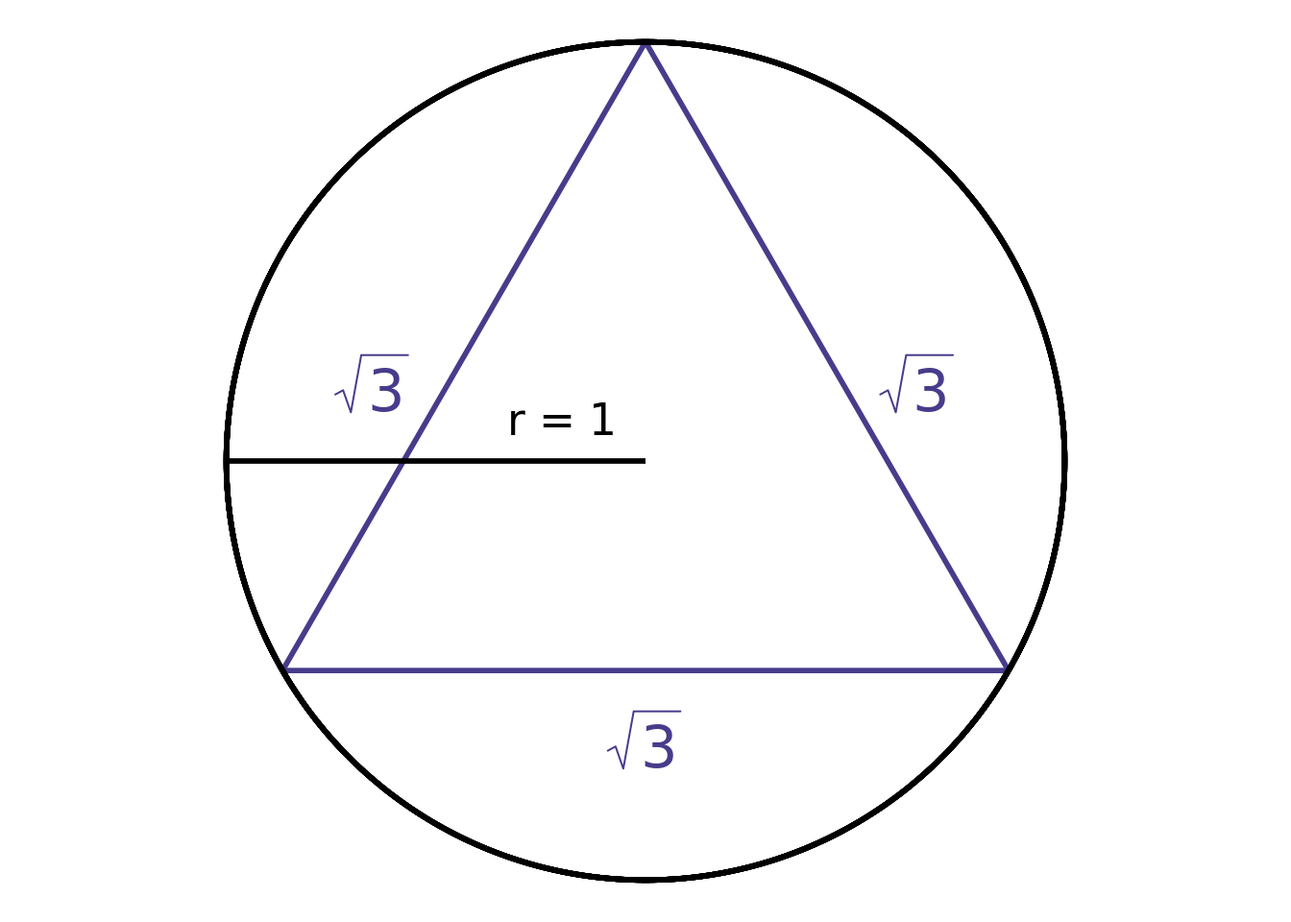
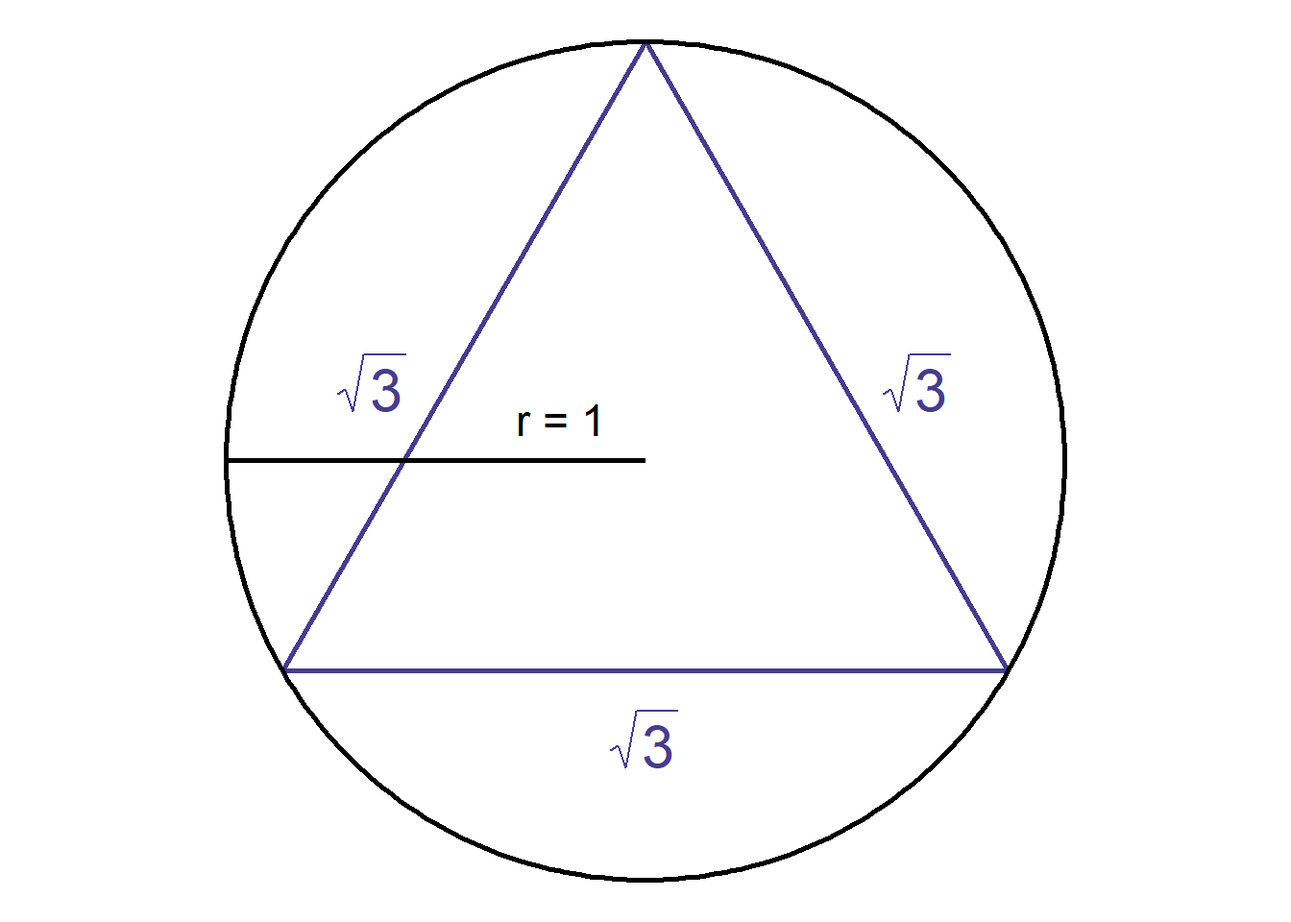
commit all.

diff --git a/index.html b/index.html
@@ -2,7 +2,7 @@
 <html xmlns="http://www.w3.org/1999/xhtml" lang="en" xml:lang="en"><head>
 
 <meta charset="utf-8">
-<meta name="generator" content="quarto-1.3.450">
+<meta name="generator" content="quarto-1.3.433">
 
 <meta name="viewport" content="width=device-width, initial-scale=1.0, user-scalable=yes">
 
@@ -102,42 +102,173 @@ pre > code.sourceCode > span > a:first-child::before { text-decoration: underlin
 </header>
 
 <div class="cell">
-<div class="sourceCode cell-code" id="cb1"><pre class="sourceCode r code-with-copy"><code class="sourceCode r"><span id="cb1-1"><a href="#cb1-1" aria-hidden="true" tabindex="-1"></a><span class="fu">library</span>(tidyverse)</span></code><button title="Copy to Clipboard" class="code-copy-button"><i class="bi"></i></button></pre></div>
-<div class="cell-output cell-output-stderr">
-<pre><code>── Attaching core tidyverse packages ──────────────────────── tidyverse 2.0.0 ──
-✔ dplyr     1.1.3     ✔ readr     2.1.4
-✔ forcats   1.0.0     ✔ stringr   1.5.0
-✔ ggplot2   3.4.3     ✔ tibble    3.2.1
-✔ lubridate 1.9.2     ✔ tidyr     1.3.0
-✔ purrr     1.0.2     
-── Conflicts ────────────────────────────────────────── tidyverse_conflicts() ──
-✖ dplyr::filter() masks stats::filter()
-✖ dplyr::lag()    masks stats::lag()
-ℹ Use the conflicted package (&lt;http://conflicted.r-lib.org/&gt;) to force all conflicts to become errors</code></pre>
-</div>
-<div class="sourceCode cell-code" id="cb3"><pre class="sourceCode r code-with-copy"><code class="sourceCode r"><span id="cb3-1"><a href="#cb3-1" aria-hidden="true" tabindex="-1"></a><span class="fu">library</span>(latex2exp)</span>
-<span id="cb3-2"><a href="#cb3-2" aria-hidden="true" tabindex="-1"></a><span class="fu">library</span>(ggforce)</span></code><button title="Copy to Clipboard" class="code-copy-button"><i class="bi"></i></button></pre></div>
+<div class="sourceCode cell-code" id="cb1"><pre class="sourceCode r code-with-copy"><code class="sourceCode r"><span id="cb1-1"><a href="#cb1-1" aria-hidden="true" tabindex="-1"></a><span class="fu">library</span>(tidyverse)</span>
+<span id="cb1-2"><a href="#cb1-2" aria-hidden="true" tabindex="-1"></a><span class="fu">library</span>(latex2exp)</span>
+<span id="cb1-3"><a href="#cb1-3" aria-hidden="true" tabindex="-1"></a><span class="fu">library</span>(ggforce)</span>
+<span id="cb1-4"><a href="#cb1-4" aria-hidden="true" tabindex="-1"></a><span class="fu">library</span>(gganimate)</span>
+<span id="cb1-5"><a href="#cb1-5" aria-hidden="true" tabindex="-1"></a><span class="fu">library</span>(extrafont)</span>
+<span id="cb1-6"><a href="#cb1-6" aria-hidden="true" tabindex="-1"></a><span class="fu">library</span>(reshape2)</span>
+<span id="cb1-7"><a href="#cb1-7" aria-hidden="true" tabindex="-1"></a><span class="fu">library</span>(plotrix)</span>
+<span id="cb1-8"><a href="#cb1-8" aria-hidden="true" tabindex="-1"></a><span class="fu">library</span>(animate)</span>
+<span id="cb1-9"><a href="#cb1-9" aria-hidden="true" tabindex="-1"></a><span class="fu">library</span>(graphics)</span>
+<span id="cb1-10"><a href="#cb1-10" aria-hidden="true" tabindex="-1"></a><span class="fu">library</span>(gifski)</span></code><button title="Copy to Clipboard" class="code-copy-button"><i class="bi"></i></button></pre></div>
 </div>
 <div class="cell">
-<div class="sourceCode cell-code" id="cb4"><pre class="sourceCode r code-with-copy"><code class="sourceCode r"><span id="cb4-1"><a href="#cb4-1" aria-hidden="true" tabindex="-1"></a><span class="co">#create data frame</span></span>
-<span id="cb4-2"><a href="#cb4-2" aria-hidden="true" tabindex="-1"></a>df <span class="ot">&lt;-</span> <span class="fu">data.frame</span>(<span class="at">x=</span><span class="fu">c</span>(<span class="dv">1</span>, <span class="dv">2</span>, <span class="dv">2</span>, <span class="dv">3</span>, <span class="dv">3</span>, <span class="dv">4</span>, <span class="dv">8</span>),</span>
-<span id="cb4-3"><a href="#cb4-3" aria-hidden="true" tabindex="-1"></a>                 <span class="at">y=</span><span class="fu">c</span>(<span class="dv">2</span>, <span class="dv">4</span>, <span class="dv">5</span>, <span class="dv">4</span>, <span class="dv">7</span>, <span class="dv">9</span>, <span class="dv">10</span>))</span>
-<span id="cb4-4"><a href="#cb4-4" aria-hidden="true" tabindex="-1"></a></span>
-<span id="cb4-5"><a href="#cb4-5" aria-hidden="true" tabindex="-1"></a><span class="co">#create scatter plot with circle</span></span>
-<span id="cb4-6"><a href="#cb4-6" aria-hidden="true" tabindex="-1"></a><span class="fu">ggplot</span>(<span class="at">data =</span> df, <span class="fu">aes</span>(x, y)) <span class="sc">+</span></span>
-<span id="cb4-7"><a href="#cb4-7" aria-hidden="true" tabindex="-1"></a>  <span class="fu">annotate</span>(<span class="st">"segment"</span>, <span class="at">x =</span> <span class="dv">0</span>, <span class="at">y =</span> <span class="dv">1</span>, <span class="at">xend =</span> <span class="sc">-</span>(<span class="dv">3</span><span class="sc">^</span>(<span class="dv">1</span><span class="sc">/</span><span class="dv">2</span>))<span class="sc">/</span><span class="dv">2</span>, <span class="at">yend =</span> <span class="sc">-</span><span class="fl">0.5</span>, <span class="at">color =</span> <span class="st">"slateblue4"</span>, <span class="at">lwd =</span> <span class="dv">1</span>) <span class="sc">+</span></span>
-<span id="cb4-8"><a href="#cb4-8" aria-hidden="true" tabindex="-1"></a>  <span class="fu">annotate</span>(<span class="st">"segment"</span>, <span class="at">x =</span> <span class="dv">0</span>, <span class="at">y =</span> <span class="dv">1</span>, <span class="at">xend =</span> (<span class="dv">3</span><span class="sc">^</span>(<span class="dv">1</span><span class="sc">/</span><span class="dv">2</span>))<span class="sc">/</span><span class="dv">2</span>, <span class="at">yend =</span> <span class="sc">-</span><span class="fl">0.5</span>, <span class="at">color =</span> <span class="st">"slateblue4"</span>, <span class="at">lwd =</span> <span class="dv">1</span>) <span class="sc">+</span></span>
-<span id="cb4-9"><a href="#cb4-9" aria-hidden="true" tabindex="-1"></a>  <span class="fu">annotate</span>(<span class="st">"segment"</span>, <span class="at">x =</span> <span class="sc">-</span>(<span class="dv">3</span><span class="sc">^</span>(<span class="dv">1</span><span class="sc">/</span><span class="dv">2</span>))<span class="sc">/</span><span class="dv">2</span>, <span class="at">y =</span> <span class="sc">-</span><span class="fl">0.5</span>, <span class="at">xend =</span> (<span class="dv">3</span><span class="sc">^</span>(<span class="dv">1</span><span class="sc">/</span><span class="dv">2</span>))<span class="sc">/</span><span class="dv">2</span>, <span class="at">yend =</span> <span class="sc">-</span><span class="fl">0.5</span>, <span class="at">color =</span> <span class="st">"slateblue4"</span>, <span class="at">lwd =</span> <span class="dv">1</span>) <span class="sc">+</span></span>
-<span id="cb4-10"><a href="#cb4-10" aria-hidden="true" tabindex="-1"></a>  <span class="fu">geom_circle</span>(<span class="fu">aes</span>(<span class="at">x0=</span><span class="dv">0</span>, <span class="at">y0=</span><span class="dv">0</span>, <span class="at">r=</span><span class="dv">1</span>), <span class="at">lwd=</span><span class="dv">1</span>, <span class="at">inherit.aes=</span><span class="cn">FALSE</span>) <span class="sc">+</span></span>
-<span id="cb4-11"><a href="#cb4-11" aria-hidden="true" tabindex="-1"></a>  <span class="fu">annotate</span>(<span class="st">"segment"</span>, <span class="at">x =</span> <span class="sc">-</span><span class="dv">1</span>, <span class="at">y =</span> <span class="dv">0</span>, <span class="at">xend =</span> <span class="dv">0</span>, <span class="at">yend =</span> <span class="dv">0</span>, <span class="at">lwd =</span> <span class="dv">1</span>) <span class="sc">+</span></span>
-<span id="cb4-12"><a href="#cb4-12" aria-hidden="true" tabindex="-1"></a>  <span class="fu">annotate</span>(<span class="st">"text"</span>, <span class="at">x  =</span> <span class="sc">-</span><span class="fl">0.2</span>, <span class="at">y =</span> <span class="fl">0.1</span>, <span class="at">label =</span> <span class="st">"r = 1"</span>, <span class="at">size =</span> <span class="dv">6</span>) <span class="sc">+</span></span>
-<span id="cb4-13"><a href="#cb4-13" aria-hidden="true" tabindex="-1"></a>  <span class="fu">annotate</span>(<span class="st">"text"</span>, <span class="at">x =</span> <span class="fl">0.65</span>, <span class="at">y =</span> <span class="fl">0.2</span>, <span class="at">label =</span> <span class="fu">TeX</span>(<span class="st">"$</span><span class="sc">\\</span><span class="st">sqrt{3}$"</span>), <span class="at">color =</span> <span class="st">"slateblue4"</span>, <span class="at">size =</span> <span class="dv">8</span>) <span class="sc">+</span></span>
-<span id="cb4-14"><a href="#cb4-14" aria-hidden="true" tabindex="-1"></a>  <span class="fu">annotate</span>(<span class="st">"text"</span>, <span class="at">x =</span> <span class="sc">-</span><span class="fl">0.65</span>, <span class="at">y =</span> <span class="fl">0.2</span>, <span class="at">label =</span> <span class="fu">TeX</span>(<span class="st">"$</span><span class="sc">\\</span><span class="st">sqrt{3}$"</span>), <span class="at">color =</span> <span class="st">"slateblue4"</span>, <span class="at">size =</span> <span class="dv">8</span>) <span class="sc">+</span></span>
-<span id="cb4-15"><a href="#cb4-15" aria-hidden="true" tabindex="-1"></a>  <span class="fu">annotate</span>(<span class="st">"text"</span>, <span class="at">x =</span> <span class="dv">0</span>, <span class="at">y =</span> <span class="sc">-</span><span class="fl">0.65</span>, <span class="at">label =</span> <span class="fu">TeX</span>(<span class="st">"$</span><span class="sc">\\</span><span class="st">sqrt{3}$"</span>), <span class="at">color =</span> <span class="st">"slateblue4"</span>, <span class="at">size =</span> <span class="dv">8</span>) <span class="sc">+</span></span>
-<span id="cb4-16"><a href="#cb4-16" aria-hidden="true" tabindex="-1"></a>  <span class="fu">theme_void</span>() <span class="sc">+</span></span>
-<span id="cb4-17"><a href="#cb4-17" aria-hidden="true" tabindex="-1"></a>  <span class="fu">coord_fixed</span>() </span></code><button title="Copy to Clipboard" class="code-copy-button"><i class="bi"></i></button></pre></div>
+<div class="sourceCode cell-code" id="cb2"><pre class="sourceCode r code-with-copy"><code class="sourceCode r"><span id="cb2-1"><a href="#cb2-1" aria-hidden="true" tabindex="-1"></a><span class="co">#create data frame</span></span>
+<span id="cb2-2"><a href="#cb2-2" aria-hidden="true" tabindex="-1"></a>df <span class="ot">&lt;-</span> <span class="fu">data.frame</span>(<span class="at">x=</span><span class="fu">c</span>(<span class="dv">1</span>, <span class="dv">2</span>, <span class="dv">2</span>, <span class="dv">3</span>, <span class="dv">3</span>, <span class="dv">4</span>, <span class="dv">8</span>),</span>
+<span id="cb2-3"><a href="#cb2-3" aria-hidden="true" tabindex="-1"></a>                 <span class="at">y=</span><span class="fu">c</span>(<span class="dv">2</span>, <span class="dv">4</span>, <span class="dv">5</span>, <span class="dv">4</span>, <span class="dv">7</span>, <span class="dv">9</span>, <span class="dv">10</span>))</span>
+<span id="cb2-4"><a href="#cb2-4" aria-hidden="true" tabindex="-1"></a></span>
+<span id="cb2-5"><a href="#cb2-5" aria-hidden="true" tabindex="-1"></a><span class="co">#create scatter plot with circle</span></span>
+<span id="cb2-6"><a href="#cb2-6" aria-hidden="true" tabindex="-1"></a><span class="fu">ggplot</span>(<span class="at">data =</span> df, <span class="fu">aes</span>(x, y)) <span class="sc">+</span></span>
+<span id="cb2-7"><a href="#cb2-7" aria-hidden="true" tabindex="-1"></a>  <span class="fu">annotate</span>(<span class="st">"segment"</span>, <span class="at">x =</span> <span class="dv">0</span>, <span class="at">y =</span> <span class="dv">1</span>, <span class="at">xend =</span> <span class="sc">-</span>(<span class="dv">3</span><span class="sc">^</span>(<span class="dv">1</span><span class="sc">/</span><span class="dv">2</span>))<span class="sc">/</span><span class="dv">2</span>, <span class="at">yend =</span> <span class="sc">-</span><span class="fl">0.5</span>, <span class="at">color =</span> <span class="st">"black"</span>, <span class="at">lwd =</span> <span class="dv">1</span>) <span class="sc">+</span></span>
+<span id="cb2-8"><a href="#cb2-8" aria-hidden="true" tabindex="-1"></a>  <span class="fu">annotate</span>(<span class="st">"segment"</span>, <span class="at">x =</span> <span class="dv">0</span>, <span class="at">y =</span> <span class="dv">1</span>, <span class="at">xend =</span> (<span class="dv">3</span><span class="sc">^</span>(<span class="dv">1</span><span class="sc">/</span><span class="dv">2</span>))<span class="sc">/</span><span class="dv">2</span>, <span class="at">yend =</span> <span class="sc">-</span><span class="fl">0.5</span>, <span class="at">color =</span> <span class="st">"black"</span>, <span class="at">lwd =</span> <span class="dv">1</span>) <span class="sc">+</span></span>
+<span id="cb2-9"><a href="#cb2-9" aria-hidden="true" tabindex="-1"></a>  <span class="fu">annotate</span>(<span class="st">"segment"</span>, <span class="at">x =</span> <span class="sc">-</span>(<span class="dv">3</span><span class="sc">^</span>(<span class="dv">1</span><span class="sc">/</span><span class="dv">2</span>))<span class="sc">/</span><span class="dv">2</span>, <span class="at">y =</span> <span class="sc">-</span><span class="fl">0.5</span>, <span class="at">xend =</span> (<span class="dv">3</span><span class="sc">^</span>(<span class="dv">1</span><span class="sc">/</span><span class="dv">2</span>))<span class="sc">/</span><span class="dv">2</span>, <span class="at">yend =</span> <span class="sc">-</span><span class="fl">0.5</span>, <span class="at">color =</span> <span class="st">"black"</span>, <span class="at">lwd =</span> <span class="dv">1</span>) <span class="sc">+</span></span>
+<span id="cb2-10"><a href="#cb2-10" aria-hidden="true" tabindex="-1"></a>  <span class="fu">geom_circle</span>(<span class="fu">aes</span>(<span class="at">x0=</span><span class="dv">0</span>, <span class="at">y0=</span><span class="dv">0</span>, <span class="at">r=</span><span class="dv">1</span>), <span class="at">lwd=</span><span class="dv">1</span>, <span class="at">inherit.aes=</span><span class="cn">FALSE</span>) <span class="sc">+</span></span>
+<span id="cb2-11"><a href="#cb2-11" aria-hidden="true" tabindex="-1"></a>  <span class="fu">annotate</span>(<span class="st">"segment"</span>, <span class="at">x =</span> <span class="sc">-</span><span class="dv">1</span>, <span class="at">y =</span> <span class="dv">0</span>, <span class="at">xend =</span> <span class="dv">0</span>, <span class="at">yend =</span> <span class="dv">0</span>, <span class="at">lwd =</span> <span class="dv">1</span>) <span class="sc">+</span></span>
+<span id="cb2-12"><a href="#cb2-12" aria-hidden="true" tabindex="-1"></a>  <span class="fu">annotate</span>(<span class="st">"text"</span>, <span class="at">x  =</span> <span class="sc">-</span><span class="fl">0.2</span>, <span class="at">y =</span> <span class="fl">0.1</span>, <span class="at">label =</span> <span class="st">"r = 1"</span>, <span class="at">size =</span> <span class="dv">6</span>, <span class="at">family =</span> <span class="st">"Cambria"</span>) <span class="sc">+</span></span>
+<span id="cb2-13"><a href="#cb2-13" aria-hidden="true" tabindex="-1"></a>  <span class="fu">annotate</span>(<span class="st">"text"</span>, <span class="at">x =</span> <span class="fl">0.65</span>, <span class="at">y =</span> <span class="fl">0.2</span>, <span class="at">label =</span> <span class="fu">TeX</span>(<span class="st">"$</span><span class="sc">\\</span><span class="st">sqrt{3}$"</span>), <span class="at">color =</span> <span class="st">"black"</span>, <span class="at">size =</span> <span class="dv">8</span>, <span class="at">family =</span> <span class="st">"Cambria"</span>) <span class="sc">+</span></span>
+<span id="cb2-14"><a href="#cb2-14" aria-hidden="true" tabindex="-1"></a>  <span class="fu">annotate</span>(<span class="st">"text"</span>, <span class="at">x =</span> <span class="sc">-</span><span class="fl">0.65</span>, <span class="at">y =</span> <span class="fl">0.2</span>, <span class="at">label =</span> <span class="fu">TeX</span>(<span class="st">"$</span><span class="sc">\\</span><span class="st">sqrt{3}$"</span>), <span class="at">color =</span> <span class="st">"black"</span>, <span class="at">size =</span> <span class="dv">8</span>, <span class="at">family =</span> <span class="st">"Cambria"</span>) <span class="sc">+</span></span>
+<span id="cb2-15"><a href="#cb2-15" aria-hidden="true" tabindex="-1"></a>  <span class="fu">annotate</span>(<span class="st">"text"</span>, <span class="at">x =</span> <span class="dv">0</span>, <span class="at">y =</span> <span class="sc">-</span><span class="fl">0.65</span>, <span class="at">label =</span> <span class="fu">TeX</span>(<span class="st">"$</span><span class="sc">\\</span><span class="st">sqrt{3}$"</span>), <span class="at">color =</span> <span class="st">"black"</span>, <span class="at">size =</span> <span class="dv">8</span>, <span class="at">family =</span> <span class="st">"Cambria"</span>) <span class="sc">+</span></span>
+<span id="cb2-16"><a href="#cb2-16" aria-hidden="true" tabindex="-1"></a>  <span class="fu">theme_void</span>() <span class="sc">+</span></span>
+<span id="cb2-17"><a href="#cb2-17" aria-hidden="true" tabindex="-1"></a>  <span class="fu">theme</span>(<span class="at">text =</span> <span class="fu">element_text</span>(<span class="at">family=</span><span class="st">"Cambria"</span>)) <span class="sc">+</span></span>
+<span id="cb2-18"><a href="#cb2-18" aria-hidden="true" tabindex="-1"></a>  <span class="fu">coord_fixed</span>() </span></code><button title="Copy to Clipboard" class="code-copy-button"><i class="bi"></i></button></pre></div>
 <div class="cell-output-display">
-<p><img src="index_files/figure-html/unnamed-chunk-2-1.png" class="img-fluid" width="672"></p>
+<p><img src="index_files/figure-html/case-1-1.png" class="img-fluid" width="672"></p>
+</div>
+</div>
+<div class="cell">
+<div class="sourceCode cell-code" id="cb3"><pre class="sourceCode r code-with-copy"><code class="sourceCode r"><span id="cb3-1"><a href="#cb3-1" aria-hidden="true" tabindex="-1"></a><span class="co"># create base plot</span></span>
+<span id="cb3-2"><a href="#cb3-2" aria-hidden="true" tabindex="-1"></a>p <span class="ot">&lt;-</span> <span class="fu">ggplot</span>(<span class="at">data =</span> df, <span class="fu">aes</span>(x, y)) <span class="sc">+</span></span>
+<span id="cb3-3"><a href="#cb3-3" aria-hidden="true" tabindex="-1"></a>  <span class="fu">geom_circle</span>(<span class="fu">aes</span>(<span class="at">x0 =</span> <span class="dv">0</span>, <span class="at">y0 =</span> <span class="dv">0</span>, <span class="at">r =</span> <span class="dv">1</span>), <span class="at">lwd =</span> <span class="dv">1</span>, <span class="at">inherit.aes =</span> <span class="cn">FALSE</span>, <span class="at">fill =</span> <span class="st">"white"</span>, <span class="at">col =</span> <span class="st">"black"</span>, <span class="at">alpha =</span> <span class="fl">0.1</span>) <span class="sc">+</span></span>
+<span id="cb3-4"><a href="#cb3-4" aria-hidden="true" tabindex="-1"></a>  <span class="fu">annotate</span>(<span class="st">"segment"</span>, <span class="at">x =</span> <span class="dv">0</span>, <span class="at">y =</span> <span class="dv">1</span>, <span class="at">xend =</span> <span class="sc">-</span>(<span class="dv">3</span><span class="sc">^</span>(<span class="dv">1</span><span class="sc">/</span><span class="dv">2</span>))<span class="sc">/</span><span class="dv">2</span>, <span class="at">yend =</span> <span class="sc">-</span><span class="fl">0.5</span>, <span class="at">color =</span> <span class="st">"gray35"</span>, <span class="at">lwd =</span> <span class="dv">1</span>) <span class="sc">+</span></span>
+<span id="cb3-5"><a href="#cb3-5" aria-hidden="true" tabindex="-1"></a>  <span class="fu">annotate</span>(<span class="st">"segment"</span>, <span class="at">x =</span> <span class="dv">0</span>, <span class="at">y =</span> <span class="dv">1</span>, <span class="at">xend =</span> (<span class="dv">3</span><span class="sc">^</span>(<span class="dv">1</span><span class="sc">/</span><span class="dv">2</span>))<span class="sc">/</span><span class="dv">2</span>, <span class="at">yend =</span> <span class="sc">-</span><span class="fl">0.5</span>, <span class="at">color =</span> <span class="st">"gray35"</span>, <span class="at">lwd =</span> <span class="dv">1</span>) <span class="sc">+</span></span>
+<span id="cb3-6"><a href="#cb3-6" aria-hidden="true" tabindex="-1"></a>  <span class="fu">annotate</span>(<span class="st">"segment"</span>, <span class="at">x =</span> <span class="sc">-</span>(<span class="dv">3</span><span class="sc">^</span>(<span class="dv">1</span><span class="sc">/</span><span class="dv">2</span>))<span class="sc">/</span><span class="dv">2</span>, <span class="at">y =</span> <span class="sc">-</span><span class="fl">0.5</span>, <span class="at">xend =</span> (<span class="dv">3</span><span class="sc">^</span>(<span class="dv">1</span><span class="sc">/</span><span class="dv">2</span>))<span class="sc">/</span><span class="dv">2</span>, <span class="at">yend =</span> <span class="sc">-</span><span class="fl">0.5</span>, <span class="at">color =</span> <span class="st">"gray35"</span>, <span class="at">lwd =</span> <span class="dv">1</span>) <span class="sc">+</span></span>
+<span id="cb3-7"><a href="#cb3-7" aria-hidden="true" tabindex="-1"></a>  <span class="fu">theme_void</span>() <span class="sc">+</span></span>
+<span id="cb3-8"><a href="#cb3-8" aria-hidden="true" tabindex="-1"></a>  <span class="fu">coord_fixed</span>()</span></code><button title="Copy to Clipboard" class="code-copy-button"><i class="bi"></i></button></pre></div>
+</div>
+<div class="cell">
+<div class="sourceCode cell-code" id="cb4"><pre class="sourceCode r code-with-copy"><code class="sourceCode r"><span id="cb4-1"><a href="#cb4-1" aria-hidden="true" tabindex="-1"></a><span class="fu">library</span>(animation)</span></code><button title="Copy to Clipboard" class="code-copy-button"><i class="bi"></i></button></pre></div>
+<div class="cell-output cell-output-stderr">
+<pre><code>Warning: package 'animation' was built under R version 4.2.3</code></pre>
+</div>
+<div class="sourceCode cell-code" id="cb6"><pre class="sourceCode r code-with-copy"><code class="sourceCode r"><span id="cb6-1"><a href="#cb6-1" aria-hidden="true" tabindex="-1"></a><span class="co"># Function to generate a random (x, y) coordinate on a unit circle centered at 0</span></span>
+<span id="cb6-2"><a href="#cb6-2" aria-hidden="true" tabindex="-1"></a>random_xy <span class="ot">&lt;-</span> <span class="cf">function</span>() {</span>
+<span id="cb6-3"><a href="#cb6-3" aria-hidden="true" tabindex="-1"></a>  <span class="co"># Generate a random angle between 0 and 2*pi</span></span>
+<span id="cb6-4"><a href="#cb6-4" aria-hidden="true" tabindex="-1"></a>  angle <span class="ot">&lt;-</span> <span class="fu">runif</span>(<span class="dv">1</span>, <span class="dv">0</span>, <span class="dv">2</span><span class="sc">*</span>pi)</span>
+<span id="cb6-5"><a href="#cb6-5" aria-hidden="true" tabindex="-1"></a>  </span>
+<span id="cb6-6"><a href="#cb6-6" aria-hidden="true" tabindex="-1"></a>  <span class="co"># Calculate the x and y coordinates using cos and sin functions</span></span>
+<span id="cb6-7"><a href="#cb6-7" aria-hidden="true" tabindex="-1"></a>  x_coordinate <span class="ot">&lt;-</span> <span class="fu">cos</span>(angle)</span>
+<span id="cb6-8"><a href="#cb6-8" aria-hidden="true" tabindex="-1"></a>  y_coordinate <span class="ot">&lt;-</span> <span class="fu">sin</span>(angle)</span>
+<span id="cb6-9"><a href="#cb6-9" aria-hidden="true" tabindex="-1"></a>  </span>
+<span id="cb6-10"><a href="#cb6-10" aria-hidden="true" tabindex="-1"></a>  <span class="fu">return</span>(<span class="fu">c</span>(x_coordinate, y_coordinate))</span>
+<span id="cb6-11"><a href="#cb6-11" aria-hidden="true" tabindex="-1"></a>}</span>
+<span id="cb6-12"><a href="#cb6-12" aria-hidden="true" tabindex="-1"></a></span>
+<span id="cb6-13"><a href="#cb6-13" aria-hidden="true" tabindex="-1"></a><span class="co"># Function to find length of line</span></span>
+<span id="cb6-14"><a href="#cb6-14" aria-hidden="true" tabindex="-1"></a>line_length <span class="ot">=</span> <span class="cf">function</span>(x1, y1, x2, y2) {</span>
+<span id="cb6-15"><a href="#cb6-15" aria-hidden="true" tabindex="-1"></a>  <span class="co"># use distance formula to calculate distance between points</span></span>
+<span id="cb6-16"><a href="#cb6-16" aria-hidden="true" tabindex="-1"></a>  distance <span class="ot">&lt;-</span> <span class="fu">sqrt</span>((x2 <span class="sc">-</span> x1)<span class="sc">^</span><span class="dv">2</span> <span class="sc">+</span> (y2 <span class="sc">-</span> y1)<span class="sc">^</span><span class="dv">2</span>)</span>
+<span id="cb6-17"><a href="#cb6-17" aria-hidden="true" tabindex="-1"></a>  <span class="fu">return</span>(distance)</span>
+<span id="cb6-18"><a href="#cb6-18" aria-hidden="true" tabindex="-1"></a>}</span>
+<span id="cb6-19"><a href="#cb6-19" aria-hidden="true" tabindex="-1"></a></span>
+<span id="cb6-20"><a href="#cb6-20" aria-hidden="true" tabindex="-1"></a><span class="co"># data for circle</span></span>
+<span id="cb6-21"><a href="#cb6-21" aria-hidden="true" tabindex="-1"></a>df <span class="ot">&lt;-</span> <span class="fu">data.frame</span>(<span class="at">x=</span><span class="fu">c</span>(<span class="dv">0</span>, <span class="dv">1</span>, <span class="sc">-</span><span class="dv">1</span>, <span class="dv">0</span>),</span>
+<span id="cb6-22"><a href="#cb6-22" aria-hidden="true" tabindex="-1"></a>                 <span class="at">y=</span><span class="fu">c</span>(<span class="dv">1</span>, <span class="dv">0</span>, <span class="dv">0</span>, <span class="sc">-</span><span class="dv">1</span>))</span>
+<span id="cb6-23"><a href="#cb6-23" aria-hidden="true" tabindex="-1"></a></span>
+<span id="cb6-24"><a href="#cb6-24" aria-hidden="true" tabindex="-1"></a>n <span class="ot">=</span> <span class="dv">10</span></span>
+<span id="cb6-25"><a href="#cb6-25" aria-hidden="true" tabindex="-1"></a>id <span class="ot">=</span> animate<span class="sc">::</span><span class="fu">new_id</span>(<span class="dv">1</span><span class="sc">:</span>n)</span>
+<span id="cb6-26"><a href="#cb6-26" aria-hidden="true" tabindex="-1"></a></span>
+<span id="cb6-27"><a href="#cb6-27" aria-hidden="true" tabindex="-1"></a></span>
+<span id="cb6-28"><a href="#cb6-28" aria-hidden="true" tabindex="-1"></a></span>
+<span id="cb6-29"><a href="#cb6-29" aria-hidden="true" tabindex="-1"></a><span class="fu">saveGIF</span>({</span>
+<span id="cb6-30"><a href="#cb6-30" aria-hidden="true" tabindex="-1"></a>  p <span class="ot">&lt;-</span> <span class="fu">ggplot</span>(<span class="at">data =</span> df, <span class="fu">aes</span>(x, y)) <span class="sc">+</span></span>
+<span id="cb6-31"><a href="#cb6-31" aria-hidden="true" tabindex="-1"></a>  <span class="fu">geom_circle</span>(<span class="fu">aes</span>(<span class="at">x0 =</span> <span class="dv">0</span>, <span class="at">y0 =</span> <span class="dv">0</span>, <span class="at">r =</span> <span class="dv">1</span>), <span class="at">lwd =</span> <span class="dv">1</span>, <span class="at">inherit.aes =</span> <span class="cn">FALSE</span>, <span class="at">fill =</span> <span class="st">"white"</span>, <span class="at">col =</span> <span class="st">"black"</span>, <span class="at">alpha =</span> <span class="fl">0.1</span>) <span class="sc">+</span></span>
+<span id="cb6-32"><a href="#cb6-32" aria-hidden="true" tabindex="-1"></a>  <span class="fu">annotate</span>(<span class="st">"segment"</span>, <span class="at">x =</span> <span class="dv">0</span>, <span class="at">y =</span> <span class="dv">1</span>, <span class="at">xend =</span> <span class="sc">-</span>(<span class="dv">3</span><span class="sc">^</span>(<span class="dv">1</span><span class="sc">/</span><span class="dv">2</span>))<span class="sc">/</span><span class="dv">2</span>, <span class="at">yend =</span> <span class="sc">-</span><span class="fl">0.5</span>, <span class="at">color =</span> <span class="st">"gray35"</span>, <span class="at">lwd =</span> <span class="dv">1</span>) <span class="sc">+</span></span>
+<span id="cb6-33"><a href="#cb6-33" aria-hidden="true" tabindex="-1"></a>  <span class="fu">annotate</span>(<span class="st">"segment"</span>, <span class="at">x =</span> <span class="dv">0</span>, <span class="at">y =</span> <span class="dv">1</span>, <span class="at">xend =</span> (<span class="dv">3</span><span class="sc">^</span>(<span class="dv">1</span><span class="sc">/</span><span class="dv">2</span>))<span class="sc">/</span><span class="dv">2</span>, <span class="at">yend =</span> <span class="sc">-</span><span class="fl">0.5</span>, <span class="at">color =</span> <span class="st">"gray35"</span>, <span class="at">lwd =</span> <span class="dv">1</span>) <span class="sc">+</span></span>
+<span id="cb6-34"><a href="#cb6-34" aria-hidden="true" tabindex="-1"></a>  <span class="fu">annotate</span>(<span class="st">"segment"</span>, <span class="at">x =</span> <span class="sc">-</span>(<span class="dv">3</span><span class="sc">^</span>(<span class="dv">1</span><span class="sc">/</span><span class="dv">2</span>))<span class="sc">/</span><span class="dv">2</span>, <span class="at">y =</span> <span class="sc">-</span><span class="fl">0.5</span>, <span class="at">xend =</span> (<span class="dv">3</span><span class="sc">^</span>(<span class="dv">1</span><span class="sc">/</span><span class="dv">2</span>))<span class="sc">/</span><span class="dv">2</span>, <span class="at">yend =</span> <span class="sc">-</span><span class="fl">0.5</span>, <span class="at">color =</span> <span class="st">"gray35"</span>, <span class="at">lwd =</span> <span class="dv">1</span>) <span class="sc">+</span></span>
+<span id="cb6-35"><a href="#cb6-35" aria-hidden="true" tabindex="-1"></a>  <span class="fu">theme_void</span>() <span class="sc">+</span></span>
+<span id="cb6-36"><a href="#cb6-36" aria-hidden="true" tabindex="-1"></a>  <span class="fu">coord_fixed</span>()</span>
+<span id="cb6-37"><a href="#cb6-37" aria-hidden="true" tabindex="-1"></a>  <span class="cf">for</span>(i <span class="cf">in</span> <span class="dv">1</span><span class="sc">:</span>n) {</span>
+<span id="cb6-38"><a href="#cb6-38" aria-hidden="true" tabindex="-1"></a>    xy <span class="ot">&lt;-</span> <span class="fu">random_xy</span>()</span>
+<span id="cb6-39"><a href="#cb6-39" aria-hidden="true" tabindex="-1"></a>    <span class="cf">if</span>(<span class="fu">line_length</span>((<span class="sc">-</span>(<span class="dv">3</span><span class="sc">^</span>(<span class="dv">1</span><span class="sc">/</span><span class="dv">2</span>))<span class="sc">/</span><span class="dv">2</span>), <span class="sc">-</span><span class="fl">0.5</span>, xy[<span class="dv">1</span>], xy[<span class="dv">2</span>]) <span class="sc">&gt;</span> <span class="dv">3</span><span class="sc">^</span>(<span class="dv">1</span><span class="sc">/</span><span class="dv">2</span>)) {</span>
+<span id="cb6-40"><a href="#cb6-40" aria-hidden="true" tabindex="-1"></a>      line_color <span class="ot">=</span> <span class="st">"firebrick1"</span></span>
+<span id="cb6-41"><a href="#cb6-41" aria-hidden="true" tabindex="-1"></a>      }</span>
+<span id="cb6-42"><a href="#cb6-42" aria-hidden="true" tabindex="-1"></a>    <span class="cf">else</span> {</span>
+<span id="cb6-43"><a href="#cb6-43" aria-hidden="true" tabindex="-1"></a>      line_color <span class="ot">=</span> <span class="st">"dodgerblue"</span></span>
+<span id="cb6-44"><a href="#cb6-44" aria-hidden="true" tabindex="-1"></a>      }</span>
+<span id="cb6-45"><a href="#cb6-45" aria-hidden="true" tabindex="-1"></a>    p <span class="sc">+</span> <span class="fu">annotate</span>(<span class="st">"segment"</span>, <span class="at">x =</span> <span class="sc">-</span>(<span class="dv">3</span><span class="sc">^</span>(<span class="dv">1</span><span class="sc">/</span><span class="dv">2</span>))<span class="sc">/</span><span class="dv">2</span>, <span class="at">xend =</span> xy[<span class="dv">1</span>], <span class="at">y =</span> <span class="sc">-</span><span class="fl">0.5</span>, <span class="at">yend =</span> xy[<span class="dv">2</span>],</span>
+<span id="cb6-46"><a href="#cb6-46" aria-hidden="true" tabindex="-1"></a>             <span class="at">color =</span> line_color, <span class="at">lwd =</span> <span class="dv">1</span>)</span>
+<span id="cb6-47"><a href="#cb6-47" aria-hidden="true" tabindex="-1"></a>    <span class="fu">ani.pause</span>()</span>
+<span id="cb6-48"><a href="#cb6-48" aria-hidden="true" tabindex="-1"></a>    }</span>
+<span id="cb6-49"><a href="#cb6-49" aria-hidden="true" tabindex="-1"></a>  }, <span class="at">movie.name =</span> <span class="st">"example-bertrand"</span>, <span class="at">interval =</span> <span class="fl">0.1</span>, <span class="at">ani.width =</span> <span class="dv">600</span>)</span></code><button title="Copy to Clipboard" class="code-copy-button"><i class="bi"></i></button></pre></div>
+<div class="cell-output cell-output-stderr">
+<pre><code>Output at: example-bertrand</code></pre>
+</div>
+<div class="cell-output cell-output-stdout">
+<pre><code>[1] TRUE</code></pre>
+</div>
+</div>
+<div class="cell">
+<div class="sourceCode cell-code" id="cb9"><pre class="sourceCode r code-with-copy"><code class="sourceCode r"><span id="cb9-1"><a href="#cb9-1" aria-hidden="true" tabindex="-1"></a><span class="co"># Function to generate a random (x, y) coordinate on a unit circle centered at 0</span></span>
+<span id="cb9-2"><a href="#cb9-2" aria-hidden="true" tabindex="-1"></a>random_xy <span class="ot">&lt;-</span> <span class="cf">function</span>() {</span>
+<span id="cb9-3"><a href="#cb9-3" aria-hidden="true" tabindex="-1"></a>  <span class="co"># Generate a random angle between 0 and 2*pi</span></span>
+<span id="cb9-4"><a href="#cb9-4" aria-hidden="true" tabindex="-1"></a>  angle <span class="ot">&lt;-</span> <span class="fu">runif</span>(<span class="dv">1</span>, <span class="dv">0</span>, <span class="dv">2</span><span class="sc">*</span>pi)</span>
+<span id="cb9-5"><a href="#cb9-5" aria-hidden="true" tabindex="-1"></a>  </span>
+<span id="cb9-6"><a href="#cb9-6" aria-hidden="true" tabindex="-1"></a>  <span class="co"># Calculate the x and y coordinates using cos and sin functions</span></span>
+<span id="cb9-7"><a href="#cb9-7" aria-hidden="true" tabindex="-1"></a>  x_coordinate <span class="ot">&lt;-</span> <span class="fu">cos</span>(angle)</span>
+<span id="cb9-8"><a href="#cb9-8" aria-hidden="true" tabindex="-1"></a>  y_coordinate <span class="ot">&lt;-</span> <span class="fu">sin</span>(angle)</span>
+<span id="cb9-9"><a href="#cb9-9" aria-hidden="true" tabindex="-1"></a>  </span>
+<span id="cb9-10"><a href="#cb9-10" aria-hidden="true" tabindex="-1"></a>  <span class="fu">return</span>(<span class="fu">c</span>(x_coordinate, y_coordinate))</span>
+<span id="cb9-11"><a href="#cb9-11" aria-hidden="true" tabindex="-1"></a>}</span>
+<span id="cb9-12"><a href="#cb9-12" aria-hidden="true" tabindex="-1"></a></span>
+<span id="cb9-13"><a href="#cb9-13" aria-hidden="true" tabindex="-1"></a><span class="co"># Function to find length of line</span></span>
+<span id="cb9-14"><a href="#cb9-14" aria-hidden="true" tabindex="-1"></a>line_length <span class="ot">=</span> <span class="cf">function</span>(x1, y1, x2, y2) {</span>
+<span id="cb9-15"><a href="#cb9-15" aria-hidden="true" tabindex="-1"></a>  <span class="co"># use distance formula to calculate distance between points</span></span>
+<span id="cb9-16"><a href="#cb9-16" aria-hidden="true" tabindex="-1"></a>  distance <span class="ot">&lt;-</span> <span class="fu">sqrt</span>((x2 <span class="sc">-</span> x1)<span class="sc">^</span><span class="dv">2</span> <span class="sc">+</span> (y2 <span class="sc">-</span> y1)<span class="sc">^</span><span class="dv">2</span>)</span>
+<span id="cb9-17"><a href="#cb9-17" aria-hidden="true" tabindex="-1"></a>  <span class="fu">return</span>(distance)</span>
+<span id="cb9-18"><a href="#cb9-18" aria-hidden="true" tabindex="-1"></a>}</span>
+<span id="cb9-19"><a href="#cb9-19" aria-hidden="true" tabindex="-1"></a></span>
+<span id="cb9-20"><a href="#cb9-20" aria-hidden="true" tabindex="-1"></a></span>
+<span id="cb9-21"><a href="#cb9-21" aria-hidden="true" tabindex="-1"></a></span>
+<span id="cb9-22"><a href="#cb9-22" aria-hidden="true" tabindex="-1"></a><span class="fu">saveGIF</span>({</span>
+<span id="cb9-23"><a href="#cb9-23" aria-hidden="true" tabindex="-1"></a>  n <span class="ot">=</span> <span class="dv">10</span></span>
+<span id="cb9-24"><a href="#cb9-24" aria-hidden="true" tabindex="-1"></a>  xy <span class="ot">=</span> <span class="fu">matrix</span>(<span class="at">nrow =</span> n, <span class="at">ncol =</span> <span class="dv">3</span>)</span>
+<span id="cb9-25"><a href="#cb9-25" aria-hidden="true" tabindex="-1"></a>  <span class="fu">colnames</span>(xy) <span class="ot">=</span> <span class="fu">c</span>(<span class="st">"x"</span>, <span class="st">"y"</span>, <span class="st">"line_color"</span>)</span>
+<span id="cb9-26"><a href="#cb9-26" aria-hidden="true" tabindex="-1"></a>  j <span class="ot">=</span> <span class="dv">1</span></span>
+<span id="cb9-27"><a href="#cb9-27" aria-hidden="true" tabindex="-1"></a>  </span>
+<span id="cb9-28"><a href="#cb9-28" aria-hidden="true" tabindex="-1"></a>  <span class="cf">for</span>(j <span class="cf">in</span> <span class="dv">1</span><span class="sc">:</span>n) {</span>
+<span id="cb9-29"><a href="#cb9-29" aria-hidden="true" tabindex="-1"></a>    my_xy <span class="ot">=</span> <span class="fu">random_xy</span>()</span>
+<span id="cb9-30"><a href="#cb9-30" aria-hidden="true" tabindex="-1"></a>    xy[j,<span class="dv">1</span>] <span class="ot">=</span> my_xy[<span class="dv">1</span>]</span>
+<span id="cb9-31"><a href="#cb9-31" aria-hidden="true" tabindex="-1"></a>    xy[j,<span class="dv">2</span>] <span class="ot">=</span> my_xy[<span class="dv">2</span>]</span>
+<span id="cb9-32"><a href="#cb9-32" aria-hidden="true" tabindex="-1"></a>    <span class="cf">if</span>(<span class="fu">line_length</span>((<span class="sc">-</span>(<span class="dv">3</span><span class="sc">^</span>(<span class="dv">1</span><span class="sc">/</span><span class="dv">2</span>))<span class="sc">/</span><span class="dv">2</span>), <span class="sc">-</span><span class="fl">0.5</span>, my_xy[<span class="dv">1</span>], my_xy[<span class="dv">2</span>]) <span class="sc">&gt;</span> <span class="dv">3</span><span class="sc">^</span>(<span class="dv">1</span><span class="sc">/</span><span class="dv">2</span>)) {</span>
+<span id="cb9-33"><a href="#cb9-33" aria-hidden="true" tabindex="-1"></a>      xy[j,<span class="dv">3</span>] <span class="ot">=</span> <span class="st">"firebrick1"</span> }</span>
+<span id="cb9-34"><a href="#cb9-34" aria-hidden="true" tabindex="-1"></a>    <span class="cf">else</span> {</span>
+<span id="cb9-35"><a href="#cb9-35" aria-hidden="true" tabindex="-1"></a>      xy[j,<span class="dv">3</span>] <span class="ot">=</span> <span class="st">"dodgerblue"</span> }</span>
+<span id="cb9-36"><a href="#cb9-36" aria-hidden="true" tabindex="-1"></a>    }</span>
+<span id="cb9-37"><a href="#cb9-37" aria-hidden="true" tabindex="-1"></a>  </span>
+<span id="cb9-38"><a href="#cb9-38" aria-hidden="true" tabindex="-1"></a>  <span class="cf">for</span>(i <span class="cf">in</span> <span class="dv">1</span><span class="sc">:</span>n) {</span>
+<span id="cb9-39"><a href="#cb9-39" aria-hidden="true" tabindex="-1"></a>    <span class="fu">par</span>(<span class="at">pty=</span><span class="st">"s"</span>)</span>
+<span id="cb9-40"><a href="#cb9-40" aria-hidden="true" tabindex="-1"></a>    <span class="fu">plot</span>(<span class="dv">1</span>, <span class="at">type =</span> <span class="st">"n"</span>, <span class="at">xlim =</span> <span class="fu">c</span>(<span class="sc">-</span><span class="dv">1</span>, <span class="dv">1</span>), <span class="at">ylim =</span> <span class="fu">c</span>(<span class="sc">-</span><span class="dv">1</span>, <span class="dv">1</span>), <span class="at">axes =</span> <span class="cn">FALSE</span>, <span class="at">xlab =</span> <span class="st">""</span>, <span class="at">ylab =</span> <span class="st">""</span>, <span class="at">asp =</span> <span class="dv">1</span>)</span>
+<span id="cb9-41"><a href="#cb9-41" aria-hidden="true" tabindex="-1"></a>    <span class="co">#add circle at specific (x, y) coordinates with specific radius</span></span>
+<span id="cb9-42"><a href="#cb9-42" aria-hidden="true" tabindex="-1"></a>    <span class="fu">draw.circle</span>(<span class="at">x =</span> <span class="dv">0</span>, <span class="at">y =</span> <span class="dv">0</span>, <span class="at">radius =</span> <span class="dv">1</span>, <span class="at">lwd =</span> <span class="dv">2</span>)</span>
+<span id="cb9-43"><a href="#cb9-43" aria-hidden="true" tabindex="-1"></a>    <span class="fu">segments</span>(<span class="at">x0 =</span> <span class="dv">0</span>, <span class="at">y0 =</span> <span class="dv">1</span>, <span class="at">x1 =</span> <span class="sc">-</span>(<span class="dv">3</span><span class="sc">^</span>(<span class="dv">1</span><span class="sc">/</span><span class="dv">2</span>))<span class="sc">/</span><span class="dv">2</span>, <span class="at">y1 =</span> <span class="sc">-</span><span class="fl">0.5</span>, <span class="at">col =</span> <span class="st">"gray35"</span>, <span class="at">lwd =</span> <span class="dv">2</span>)</span>
+<span id="cb9-44"><a href="#cb9-44" aria-hidden="true" tabindex="-1"></a>    <span class="fu">segments</span>(<span class="at">x0 =</span> <span class="dv">0</span>, <span class="at">y0 =</span> <span class="dv">1</span>, <span class="at">x1 =</span> (<span class="dv">3</span><span class="sc">^</span>(<span class="dv">1</span><span class="sc">/</span><span class="dv">2</span>))<span class="sc">/</span><span class="dv">2</span>, <span class="at">y1 =</span> <span class="sc">-</span><span class="fl">0.5</span>, <span class="at">col =</span> <span class="st">"gray35"</span>, <span class="at">lwd =</span> <span class="dv">2</span>)</span>
+<span id="cb9-45"><a href="#cb9-45" aria-hidden="true" tabindex="-1"></a>    <span class="fu">segments</span>(<span class="at">x0 =</span> <span class="sc">-</span>(<span class="dv">3</span><span class="sc">^</span>(<span class="dv">1</span><span class="sc">/</span><span class="dv">2</span>))<span class="sc">/</span><span class="dv">2</span>, <span class="at">y0 =</span> <span class="sc">-</span><span class="fl">0.5</span>, <span class="at">x1 =</span> (<span class="dv">3</span><span class="sc">^</span>(<span class="dv">1</span><span class="sc">/</span><span class="dv">2</span>))<span class="sc">/</span><span class="dv">2</span>, <span class="at">y1 =</span> <span class="sc">-</span><span class="fl">0.5</span>, <span class="at">col =</span> <span class="st">"gray35"</span>, <span class="at">lwd =</span> <span class="dv">2</span>)</span>
+<span id="cb9-46"><a href="#cb9-46" aria-hidden="true" tabindex="-1"></a>    <span class="fu">lines</span>(<span class="at">x =</span> <span class="fu">c</span>(<span class="sc">-</span>(<span class="dv">3</span><span class="sc">^</span>(<span class="dv">1</span><span class="sc">/</span><span class="dv">2</span>))<span class="sc">/</span><span class="dv">2</span>, xy[i,<span class="dv">1</span>]), <span class="at">y =</span> <span class="fu">c</span>(<span class="sc">-</span><span class="fl">0.5</span>, xy[i,<span class="dv">2</span>]), <span class="at">col =</span> xy[i,<span class="dv">3</span>], <span class="at">lwd =</span> <span class="dv">2</span>)}</span>
+<span id="cb9-47"><a href="#cb9-47" aria-hidden="true" tabindex="-1"></a>  })</span></code><button title="Copy to Clipboard" class="code-copy-button"><i class="bi"></i></button></pre></div>
+<div class="cell-output cell-output-stderr">
+<pre><code>Output at: animation.gif</code></pre>
+</div>
+<div class="cell-output cell-output-stdout">
+<pre><code>[1] TRUE</code></pre>
+</div>
+</div>
+<div class="cell">
+<div class="sourceCode cell-code" id="cb12"><pre class="sourceCode r code-with-copy"><code class="sourceCode r"><span id="cb12-1"><a href="#cb12-1" aria-hidden="true" tabindex="-1"></a><span class="fu">ggplot</span>(<span class="at">data =</span> df, <span class="fu">aes</span>(x, y)) <span class="sc">+</span></span>
+<span id="cb12-2"><a href="#cb12-2" aria-hidden="true" tabindex="-1"></a>  <span class="fu">geom_circle</span>(<span class="fu">aes</span>(<span class="at">x0 =</span> <span class="dv">0</span>, <span class="at">y0 =</span> <span class="dv">0</span>, <span class="at">r =</span> <span class="dv">1</span>), <span class="at">lwd =</span> <span class="dv">2</span>, <span class="at">inherit.aes =</span> <span class="cn">FALSE</span>, <span class="at">fill =</span> <span class="st">"white"</span>, <span class="at">col =</span> <span class="st">"black"</span>, <span class="at">alpha =</span> <span class="fl">0.1</span>) <span class="sc">+</span></span>
+<span id="cb12-3"><a href="#cb12-3" aria-hidden="true" tabindex="-1"></a>  <span class="fu">theme_void</span>() <span class="sc">+</span></span>
+<span id="cb12-4"><a href="#cb12-4" aria-hidden="true" tabindex="-1"></a>  <span class="fu">coord_fixed</span>()</span></code><button title="Copy to Clipboard" class="code-copy-button"><i class="bi"></i></button></pre></div>
+<div class="cell-output-display">
+<p><img src="index_files/figure-html/Moser's%20Circle%20Problem-1.png" class="img-fluid" width="672"></p>
 </div>
 </div>
 
